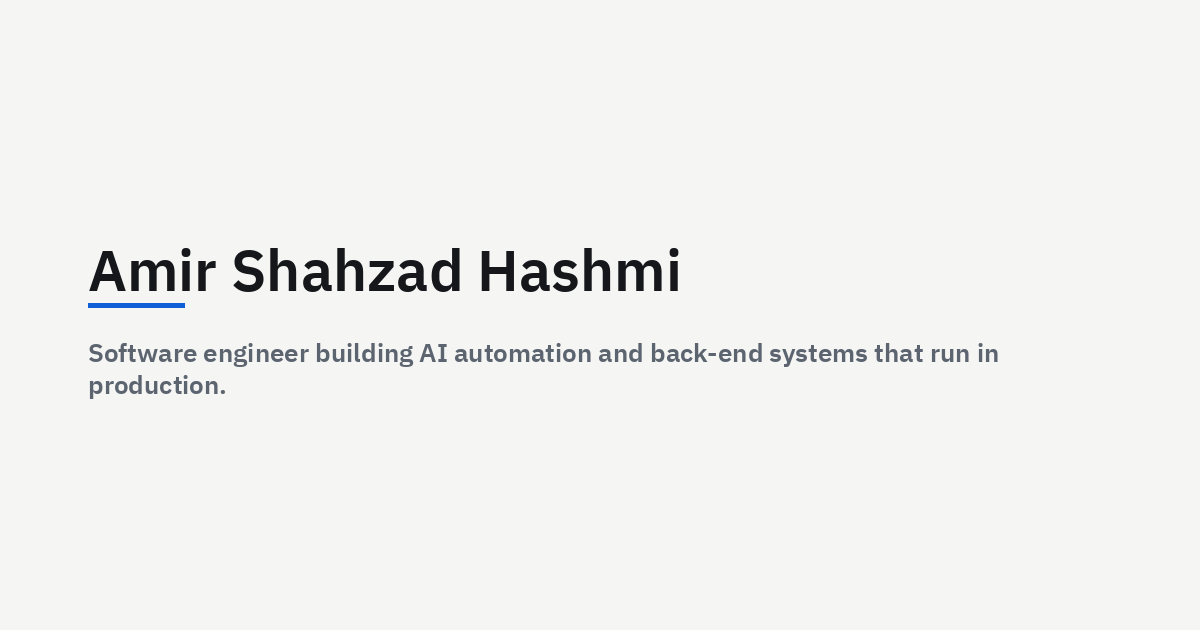
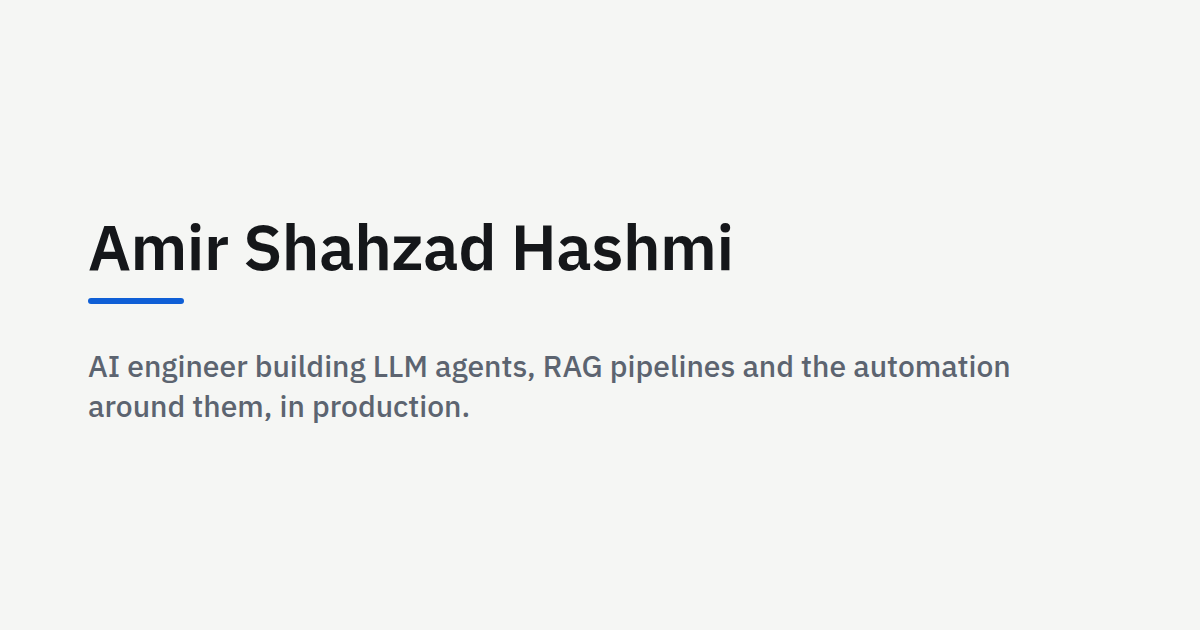
Update portfolio: AI engineer positioning, projects section, live GitHub facts
Reposition the hero, title and metadata around LLM agents, RAG and
evaluation work. Add an evaluation-infrastructure case study to Work.
Add a Projects section with the open source repos (Atelier, AgentRewind,
DBPort, NexJob, LeadBridge, RyxoGo, the trading bot and the .dai
contributions); cards read updated date, language and stars from the
GitHub API at load, falling back to static text. Refresh skills, bio,
education dates, the Open Graph image and the sitemap.

Changed region(s): [[0.0617, 0.3317, 0.6167, 0.5127], [0.0617, 0.5429, 0.8633, 0.6635]]

diff --git a/index.html b/index.html
@@ -3,26 +3,27 @@
 <head>
   <meta charset="UTF-8">
   <meta name="viewport" content="width=device-width, initial-scale=1.0">
-  <title>Amir Shahzad Hashmi, Software Engineer: AI automation and back-end systems</title>
-  <meta name="description" content="Software engineer in Lahore building agentic LLM systems, workflow automation and back-end APIs in production. Python, FastAPI, Node.js, React, SQL and NoSQL.">
+  <title>Amir Shahzad Hashmi, AI Engineer: LLM agents, RAG and automation in production</title>
+  <meta name="description" content="AI engineer in Lahore building LLM agents, RAG pipelines, evaluation infrastructure and workflow automation that run in production. Python, FastAPI, Node.js, React, Go, SQL and NoSQL.">
   <link rel="canonical" href="https://amirshahzadhashmi7145.github.io/Amir-Portfolio/">
   <meta name="theme-color" media="(prefers-color-scheme: light)" content="#F5F6F4">
   <meta name="theme-color" media="(prefers-color-scheme: dark)" content="#0E1116">
   <meta property="og:type" content="website">
-  <meta property="og:title" content="Amir Shahzad Hashmi, Software Engineer: AI automation and back-end systems">
-  <meta property="og:description" content="Software engineer in Lahore building agentic LLM systems, workflow automation and back-end APIs in production. Python, FastAPI, Node.js, React, SQL and NoSQL.">
+  <meta property="og:title" content="Amir Shahzad Hashmi, AI Engineer: LLM agents, RAG and automation in production">
+  <meta property="og:description" content="AI engineer in Lahore building LLM agents, RAG pipelines, evaluation infrastructure and workflow automation that run in production. Python, FastAPI, Node.js, React, Go, SQL and NoSQL.">
   <meta property="og:url" content="https://amirshahzadhashmi7145.github.io/Amir-Portfolio/">
   <meta property="og:image" content="https://amirshahzadhashmi7145.github.io/Amir-Portfolio/assets/og-image.png">
   <meta name="twitter:card" content="summary_large_image">
-  <meta name="twitter:title" content="Amir Shahzad Hashmi, Software Engineer: AI automation and back-end systems">
-  <meta name="twitter:description" content="Software engineer in Lahore building agentic LLM systems, workflow automation and back-end APIs in production. Python, FastAPI, Node.js, React, SQL and NoSQL.">
+  <meta name="twitter:title" content="Amir Shahzad Hashmi, AI Engineer: LLM agents, RAG and automation in production">
+  <meta name="twitter:description" content="AI engineer in Lahore building LLM agents, RAG pipelines, evaluation infrastructure and workflow automation that run in production. Python, FastAPI, Node.js, React, Go, SQL and NoSQL.">
   <meta name="twitter:image" content="https://amirshahzadhashmi7145.github.io/Amir-Portfolio/assets/og-image.png">
   <script type="application/ld+json">
   {
     "@context": "https://schema.org",
     "@type": "Person",
     "name": "Amir Shahzad Hashmi",
-    "jobTitle": "Software Engineer",
+    "jobTitle": "AI Engineer",
+    "knowsAbout": ["LLM agents", "Retrieval-augmented generation", "LLM evaluation", "Workflow automation", "Python", "FastAPI", "React", "Go"],
     "url": "https://amirshahzadhashmi7145.github.io/Amir-Portfolio/",
     "sameAs": [
       "https://github.com/amirshahzadhashmi7145",
@@ -61,10 +62,10 @@
   <noscript>
     <link rel="stylesheet" href="https://fonts.googleapis.com/css2?family=IBM+Plex+Mono:wght@400&family=IBM+Plex+Sans:wght@400;500;600&display=swap">
   </noscript>
-  <link rel="stylesheet" href="styles.css?v=3">
+  <link rel="stylesheet" href="styles.css?v=4">
   <link rel="icon" href="favicon.ico" sizes="any">
   <link rel="icon" href="assets/favicon.svg" type="image/svg+xml">
-  <script defer src="script.js?v=3"></script>
+  <script defer src="script.js?v=4"></script>
 </head>
 <body>
   <svg class="icon-sprite" xmlns="http://www.w3.org/2000/svg" aria-hidden="true" focusable="false">
@@ -119,6 +120,7 @@
         <div class="nav-panel" id="nav-panel">
           <ul class="nav-links">
             <li><a href="#work">Work</a></li>
+            <li><a href="#projects">Projects</a></li>
             <li><a href="#experience">Experience</a></li>
             <li><a href="#skills">Skills</a></li>
             <li><a href="#about">About</a></li>
@@ -144,8 +146,8 @@
       <div class="wrap hero-inner">
         <div class="hero-copy">
           <h1 id="hero-name">Amir Shahzad Hashmi</h1>
-          <p class="hero-tagline">Software engineer building AI automation and back-end systems that run in production.</p>
-          <p class="hero-intro">I design agentic LLM systems, workflow automation and the APIs around them. Five years of full-stack delivery with Python, FastAPI, Node.js, React and SQL and NoSQL databases.</p>
+          <p class="hero-tagline">AI engineer building LLM agents, RAG pipelines and the automation around them, in production.</p>
+          <p class="hero-intro">I design agentic LLM systems, evaluation infrastructure and workflow automation, plus the FastAPI, Node.js and React applications around them. Working professionally since 2021, currently as a full-stack automation engineer for Nexar, with open source projects on the side.</p>
           <p class="hero-actions">
             <a href="mailto:amirshahzadhashmi7145@gmail.com">
               <svg class="icon" aria-hidden="true"><use href="#i-mail"></use></svg>
@@ -259,6 +261,27 @@
           </article>
 
           <article class="card">
+            <h3>Benchmark tasks and evaluation infrastructure for LLM training</h3>
+            <p class="card-client">Contract work</p>
+            <p class="card-summary">RLHF benchmark tasks and the automated grading used to train and test large language models.</p>
+            <dl class="fact-list">
+              <div>
+                <dt>Problem</dt>
+                <dd>Model teams need realistic, verifiable tasks, including multi-step agentic ones, with grading that does not depend on a person reading every transcript.</dd>
+              </div>
+              <div>
+                <dt>What I built</dt>
+                <dd>Benchmark tasks with reference solutions and automated graders, including agentic tasks where the model has to use tools across several steps, and the evaluation harness that scores runs and surfaces failure modes.</dd>
+              </div>
+              <div>
+                <dt>Stack</dt>
+                <dd>Python, LLM APIs, automated grading</dd>
+              </div>
+            </dl>
+            <p class="private-note">Task content is not public. Happy to talk through the evaluation approach.</p>
+          </article>
+
+          <article class="card">
             <h3>AI-powered workforce analytics dashboard</h3>
             <p class="card-summary">A dashboard that turns workforce data for 500+ employees into performance patterns and retention signals.</p>
             <dl class="fact-list">
@@ -277,6 +300,66 @@
             </dl>
             <!-- TODO: Amir to confirm whether a public repo or demo exists -->
           </article>
+
+        </div>
+      </div>
+    </section>
+
+    <section id="projects" class="section" aria-labelledby="projects-title">
+      <div class="section-inner">
+        <h2 id="projects-title">Projects</h2>
+        <div class="section-body">
+          <p class="section-lead">Open source work on <a href="https://github.com/amirshahzadhashmi7145" target="_blank" rel="noopener noreferrer">GitHub</a>. Activity and stars are read live from the GitHub API when the page loads.</p>
+          <div class="project-grid">
+              <article class="card project-card" data-repo="amirshahzadhashmi7145/atelier">
+                <h3><a href="https://github.com/amirshahzadhashmi7145/atelier" target="_blank" rel="noopener noreferrer">Atelier</a></h3>
+                <p>An orchestration platform that turns a one-paragraph product description into requirements, tasks, code, tests and reviewed pull requests. Agents work in isolated folders and every task goes through one routing function, so a supervisor can slot in later.</p>
+                <p class="project-stack"><strong>Stack:</strong> Python, FastAPI, OpenAI API, Alembic, Next.js.</p>
+                <p class="repo-meta" data-repo-meta>On GitHub</p>
+              </article>
+              <article class="card project-card" data-repo="amirshahzadhashmi7145/agentrewind">
+                <h3><a href="https://github.com/amirshahzadhashmi7145/agentrewind" target="_blank" rel="noopener noreferrer">AgentRewind</a></h3>
+                <p>Record, inspect and replay agent runs so you can debug one bad decision without rerunning the whole thing. A small Python SDK wraps LLM and tool calls as spans; a web UI steps through them.</p>
+                <p class="project-stack"><strong>Stack:</strong> Python SDK, FastAPI, React.</p>
+                <p class="repo-meta" data-repo-meta>On GitHub</p>
+              </article>
+              <article class="card project-card" data-repo="amirshahzadhashmi7145/dbport">
+                <h3><a href="https://github.com/amirshahzadhashmi7145/dbport" target="_blank" rel="noopener noreferrer">DBPort</a></h3>
+                <p>A self-hosted web app that connects to any database with credentials and lets you browse, query and edit it with no setup code. Introspects schemas for PostgreSQL, MySQL, SQLite, SQL Server and MongoDB.</p>
+                <p class="project-stack"><strong>Stack:</strong> Python, SQL and MongoDB drivers, React.</p>
+                <p class="repo-meta" data-repo-meta>On GitHub</p>
+              </article>
+              <article class="card project-card" data-repo="amirshahzadhashmi7145/NexJob">
+                <h3><a href="https://github.com/amirshahzadhashmi7145/NexJob" target="_blank" rel="noopener noreferrer">NexJob</a></h3>
+                <p>A Chrome extension that fills any job-application form from your saved profile. The LLM only does semantic field matching, so it works on sites it has never seen. Profile and API key stay in the browser.</p>
+                <p class="project-stack"><strong>Stack:</strong> JavaScript, Chrome extension APIs, OpenAI API.</p>
+                <p class="repo-meta" data-repo-meta>On GitHub</p>
+              </article>
+              <article class="card project-card" data-repo="amirshahzadhashmi7145/LeadBridge">
+                <h3><a href="https://github.com/amirshahzadhashmi7145/LeadBridge" target="_blank" rel="noopener noreferrer">LeadBridge</a></h3>
+                <p>A Chrome extension that captures structured lead data from LinkedIn, Upwork and Wellfound into a shared Google Sheet. Salespeople review and edit the extracted fields before anything is saved.</p>
+                <p class="project-stack"><strong>Stack:</strong> TypeScript, Chrome extension APIs, Google Sheets API.</p>
+                <p class="repo-meta" data-repo-meta>On GitHub</p>
+              </article>
+              <article class="card project-card" data-repo="amirshahzadhashmi7145/ryxogo">
+                <h3><a href="https://github.com/amirshahzadhashmi7145/ryxogo" target="_blank" rel="noopener noreferrer">RyxoGo</a></h3>
+                <p>An experimental Go-first frontend framework that compiles to WebAssembly: signals, components, routing, server-side rendering, i18n and an MCP server so AI tools can drive it.</p>
+                <p class="project-stack"><strong>Stack:</strong> Go, WebAssembly, MCP.</p>
+                <p class="repo-meta" data-repo-meta>On GitHub</p>
+              </article>
+              <article class="card project-card">
+                <h3>Trend-following trading bot</h3>
+                <p>A crypto bot on Freqtrade (Donchian breakout, 4h timeframe) deployed with Docker, plus a news-watcher service that uses LLM classification to pause trading around macro events. Running in dry-run while the strategy proves itself.</p>
+                <p class="project-stack"><strong>Stack:</strong> Python, Freqtrade, Docker, LLM classification.</p>
+                <p class="repo-meta">Private repository.</p>
+              </article>
+              <article class="card project-card" data-repo="Kerneta/daidocs">
+                <h3><a href="https://github.com/Kerneta/daidocs" target="_blank" rel="noopener noreferrer">.dai (contributor)</a></h3>
+                <p>An open plain-text format for AI memory. I contributed two merged pull requests: keeping setup-written files out of git repositories, and a clearer hint after a skipped history conversion.</p>
+                <p class="project-stack"><strong>Stack:</strong> Node.js CLI, MCP server.</p>
+                <p class="repo-meta" data-repo-meta>On GitHub</p>
+              </article>
+          </div>
 
           <div class="subsection">
             <h3>Earlier projects</h3>
@@ -358,15 +441,14 @@
         <h2 id="skills-title">Skills</h2>
         <div class="section-body">
           <ul class="skill-list">
-            <li><strong>Languages:</strong> Python, JavaScript, Java, SQL, C#, C/C++</li>
-            <li><strong>Back end and APIs:</strong> FastAPI, Node.js, Express, REST APIs, WebSockets, third-party API integration (Shopify, Intercom, Recurly, Fulfillrite), Firebase</li>
-            <li><strong>AI and automation:</strong> Anthropic API (native tool calling), agentic RAG, LLM pipelines, generative AI integration, workflow automation, n8n, Zapier, Vertex AI</li>
-            <li><strong>Front end:</strong> React, Next.js, Redux, HTML, CSS, Tailwind CSS, Bootstrap, responsive UI</li>
-            <li><strong>Databases:</strong> SQL, SQLite, MongoDB, Firebase, BigQuery, database design</li>
+            <li><strong>Languages:</strong> Python, JavaScript, TypeScript, Go, SQL, Java, C#, C/C++</li>
+            <li><strong>Back end and APIs:</strong> FastAPI, Node.js, Express, REST APIs, WebSockets, webhooks, third-party API integration (Shopify, Intercom, Recurly, Fulfillrite, Google Sheets), Firebase</li>
+            <li><strong>AI and automation:</strong> Anthropic and OpenAI APIs (native tool calling), agentic RAG, LLM evaluation and automated grading, MCP servers, LLM pipelines, workflow automation, n8n, Zapier, Vertex AI</li>
+            <li><strong>Front end:</strong> React, Next.js, Redux, HTML, CSS, Tailwind CSS, Bootstrap, Chrome extensions, WebAssembly from Go</li>
+            <li><strong>Databases:</strong> PostgreSQL, MySQL, SQLite, SQL Server, MongoDB, Firebase, BigQuery, schema design</li>
             <li><strong>Cloud and DevOps:</strong> AWS, GCP, Docker, CI/CD with GitHub Actions, server setup and deployment pipelines</li>
             <li><strong>Practices:</strong> object-oriented design, data structures and algorithms, scalable architecture, Agile collaboration, Git and GitHub</li>
           </ul>
-          <!-- TODO: Amir to confirm whether to list Django, Electron.js, Google Analytics, Pandas and Dart -->
         </div>
       </div>
     </section>
@@ -381,13 +463,13 @@
               <img class="about-photo" src="assets/profile-480.jpg" alt="Amir Shahzad Hashmi" width="240" height="240" loading="lazy" decoding="async">
             </picture>
             <div class="bio">
-              <p>I'm a software engineer in Lahore, Pakistan. For the past year I've worked with Nexar through Coders Alley on Python back-end services, third-party API integrations and internal tooling, including AI features that run in production. Before that I spent four years building MERN-stack applications for local clients, from database design to deployment.</p>
+              <p>I'm an AI engineer in Lahore, Pakistan. For the past year I've worked with Nexar through Coders Alley on Python back-end services, third-party API integrations and internal tooling, including an agentic RAG support agent that runs in production. Alongside that I write benchmark tasks and evaluation infrastructure for LLM training, and I keep a few open source projects moving: an agent orchestration platform, an agent run recorder, a database browser and a Go-to-WebAssembly framework. Before that I spent four years building MERN-stack applications for local clients, from database design to deployment.</p>
               <p>I like owning a system from data model to production and keeping it maintainable once it's live, and I'd rather build directly on a well-understood API than hide it behind an abstraction layer I can't debug. Off the clock: video games, travel, reading and philosophy.</p>
             </div>
           </div>
           <div class="about-block">
             <h3>Education</h3>
-            <p><strong>BS Computer Science</strong>, COMSATS University Islamabad (Lahore Campus). Aug 2021 to Jun 2026.</p>
+            <p><strong>BS Computer Science</strong>, COMSATS University Islamabad (Lahore Campus), 2021 to 2026.</p>
           </div>
           <div class="about-block">
             <h3>Certifications</h3>
@@ -445,7 +527,7 @@
 
   <footer class="site-footer">
     <div class="wrap">
-      <p>&copy; <span id="current-year">2026</span> Amir Shahzad Hashmi. Built with plain HTML, CSS and JavaScript.</p>
+      <p>&copy; <span id="current-year">2026</span> Amir Shahzad Hashmi. Built with plain HTML, CSS and JavaScript. <a href="https://github.com/amirshahzadhashmi7145/Amir-Portfolio" target="_blank" rel="noopener noreferrer">Source on GitHub</a>.</p>
     </div>
   </footer>
 

diff --git a/script.js b/script.js
@@ -62,6 +62,44 @@
     });
 
     if (yearEl) yearEl.textContent = String(new Date().getFullYear());
+
+    // Live repo facts from the GitHub API (unauthenticated, cached for an hour).
+    // If the request fails or is rate limited, the static "On GitHub" text stays.
+    const ago = (iso) => {
+      const days = Math.floor((Date.now() - new Date(iso)) / 864e5);
+      if (days < 1) return "today";
+      if (days < 7) return `${days} day${days === 1 ? "" : "s"} ago`;
+      if (days < 60) return `${Math.floor(days / 7)} week${days < 14 ? "" : "s"} ago`;
+      if (days < 365) return `${Math.floor(days / 30)} months ago`;
+      return `${Math.floor(days / 365)} year${days < 730 ? "" : "s"} ago`;
+    };
+    const fetchRepo = async (name) => {
+      const key = `repo:${name}`;
+      try {
+        const hit = JSON.parse(sessionStorage.getItem(key) || "null");
+        if (hit && Date.now() - hit.t < 36e5) return hit.v;
+      } catch (e) {}
+      const res = await fetch(`https://api.github.com/repos/${name}`, {
+        headers: { Accept: "application/vnd.github+json" },
+      });
+      if (!res.ok) throw new Error(String(res.status));
+      const d = await res.json();
+      const v = { pushed: d.pushed_at, stars: d.stargazers_count, lang: d.language };
+      try { sessionStorage.setItem(key, JSON.stringify({ t: Date.now(), v })); } catch (e) {}
+      return v;
+    };
+    document.querySelectorAll("[data-repo]").forEach((card) => {
+      const meta = card.querySelector("[data-repo-meta]");
+      if (!meta) return;
+      fetchRepo(card.dataset.repo)
+        .then((v) => {
+          const parts = [`Updated ${ago(v.pushed)}`];
+          if (v.lang) parts.push(v.lang);
+          if (v.stars) parts.push(`${v.stars} star${v.stars === 1 ? "" : "s"}`);
+          meta.innerHTML = `<span class="dot" aria-hidden="true"></span>${parts.join(" · ")}`;
+        })
+        .catch(() => {});
+    });
   };
 
   if (document.readyState === "loading") {

diff --git a/styles.css b/styles.css
@@ -504,6 +504,52 @@ ol {
   max-width: var(--measure);
 }
 
+.project-grid {
+  display: grid;
+  gap: 1rem;
+}
+
+.project-grid .card {
+  margin-top: 0;
+  display: flex;
+  flex-direction: column;
+}
+
+.project-card h3 a {
+  color: var(--ink);
+}
+
+.project-card h3 a:hover {
+  color: var(--accent);
+}
+
+.project-card p {
+  max-width: var(--measure);
+}
+
+.project-stack {
+  color: var(--muted);
+  font-size: 0.95rem;
+}
+
+.repo-meta {
+  margin-top: auto;
+  padding-top: 0.5rem;
+  font-family: var(--mono);
+  font-size: 0.82rem;
+  color: var(--muted);
+}
+
+.repo-meta .dot {
+  display: inline-block;
+  width: 0.55em;
+  height: 0.55em;
+  border-radius: 50%;
+  background: var(--accent);
+  margin-right: 0.35em;
+  vertical-align: 0.05em;
+}
+
 .timeline {
   list-style: none;
   border-left: 1px solid var(--line);
@@ -634,7 +680,8 @@ ol {
 }
 
 @media (min-width: 720px) {
-  .earlier-grid {
+  .earlier-grid,
+  .project-grid {
     grid-template-columns: 1fr 1fr;
   }
 }

diff --git a/README.md b/README.md
@@ -1,6 +1,6 @@
 # Amir Shahzad Hashmi, portfolio
 
-A static single-page portfolio for Amir Shahzad Hashmi, aimed at software engineering roles in back-end, full-stack and AI automation. Live at [https://amirshahzadhashmi7145.github.io/Amir-Portfolio/](https://amirshahzadhashmi7145.github.io/Amir-Portfolio/).
+A static single-page portfolio for Amir Shahzad Hashmi, aimed at AI engineering, back-end and full-stack roles. Live at [https://amirshahzadhashmi7145.github.io/Amir-Portfolio/](https://amirshahzadhashmi7145.github.io/Amir-Portfolio/).
 
 ## Run locally
 
@@ -25,7 +25,8 @@ Or open `index.html` in a browser. There is no build step.
 
 Edit the relevant section in `index.html`:
 
-- Work case studies and earlier projects: `#work`
+- Work case studies: `#work`
+- Open source projects and earlier projects: `#projects` (cards with a `data-repo` attribute get live "updated / language / stars" facts from the GitHub API via `script.js`)
 - Jobs: `#experience`
 - Skills groups: `#skills`
 - Bio, education, certifications: `#about`
